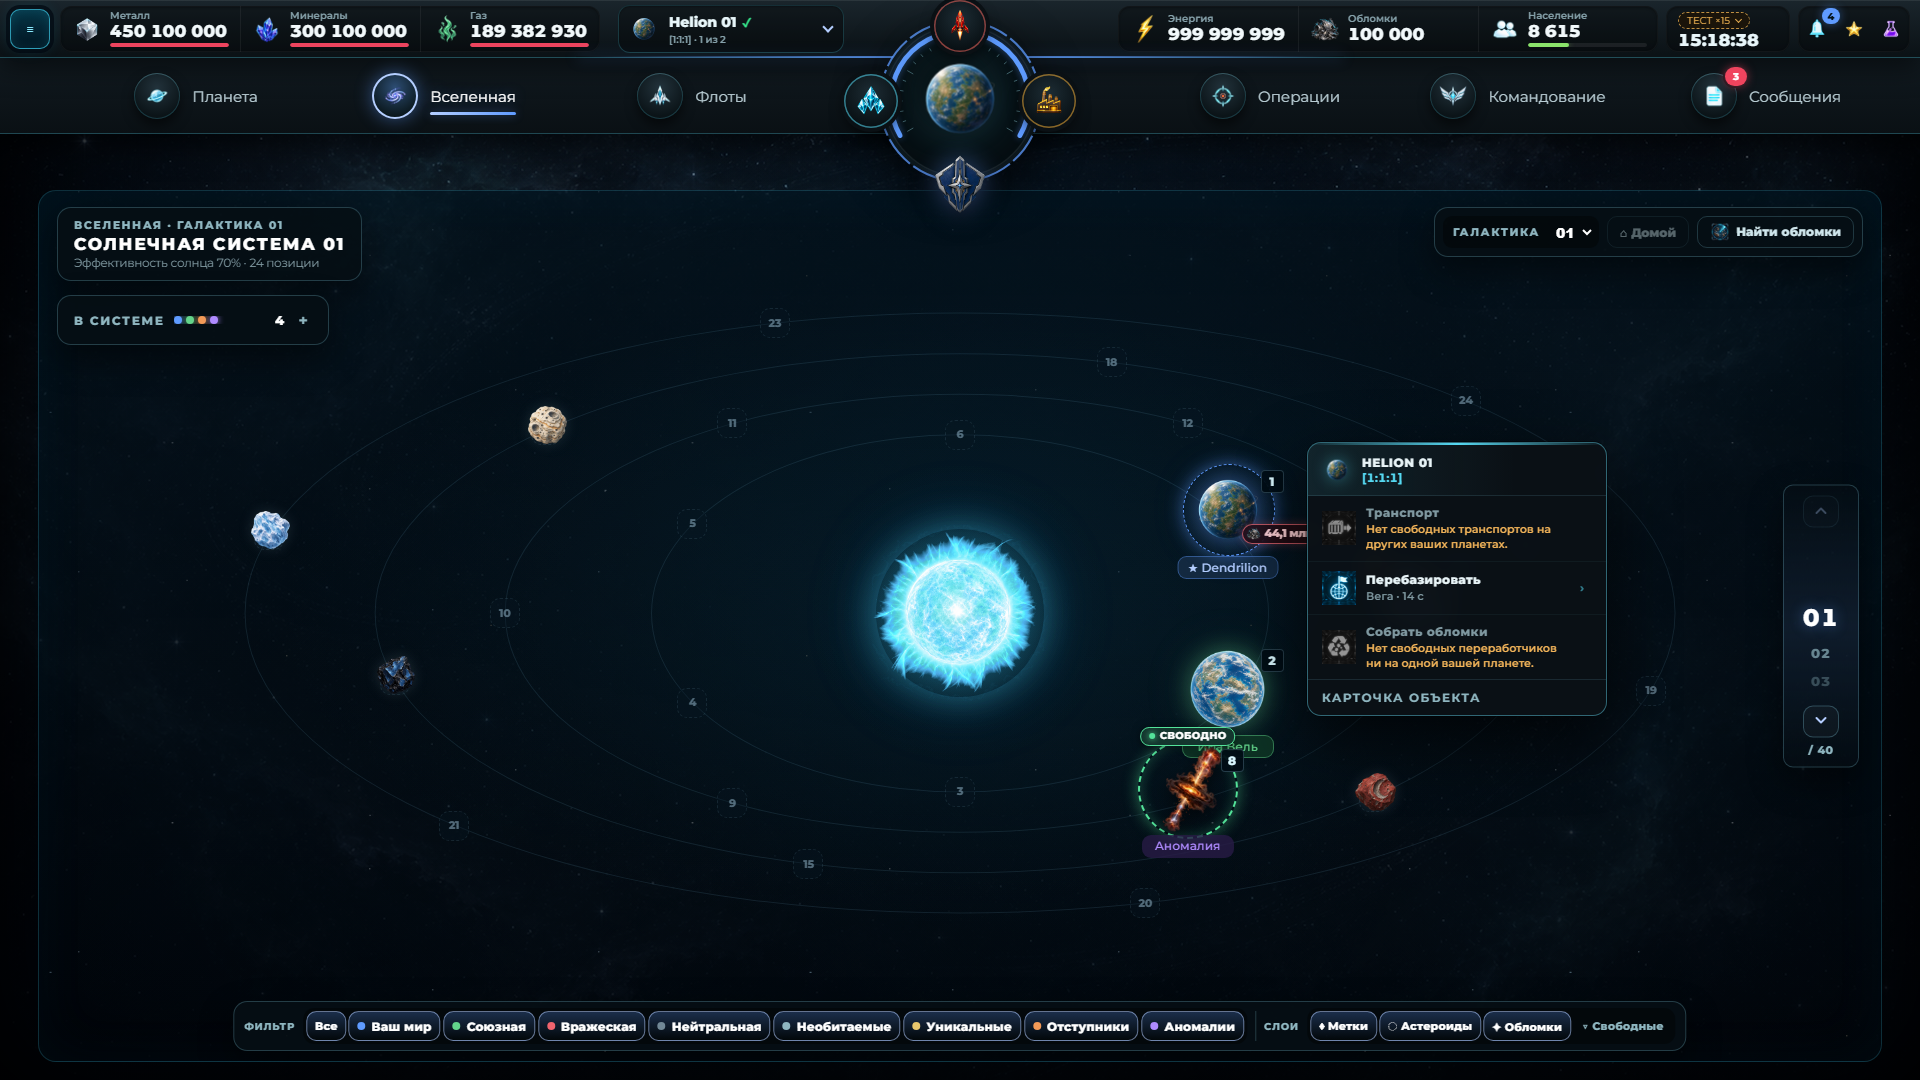
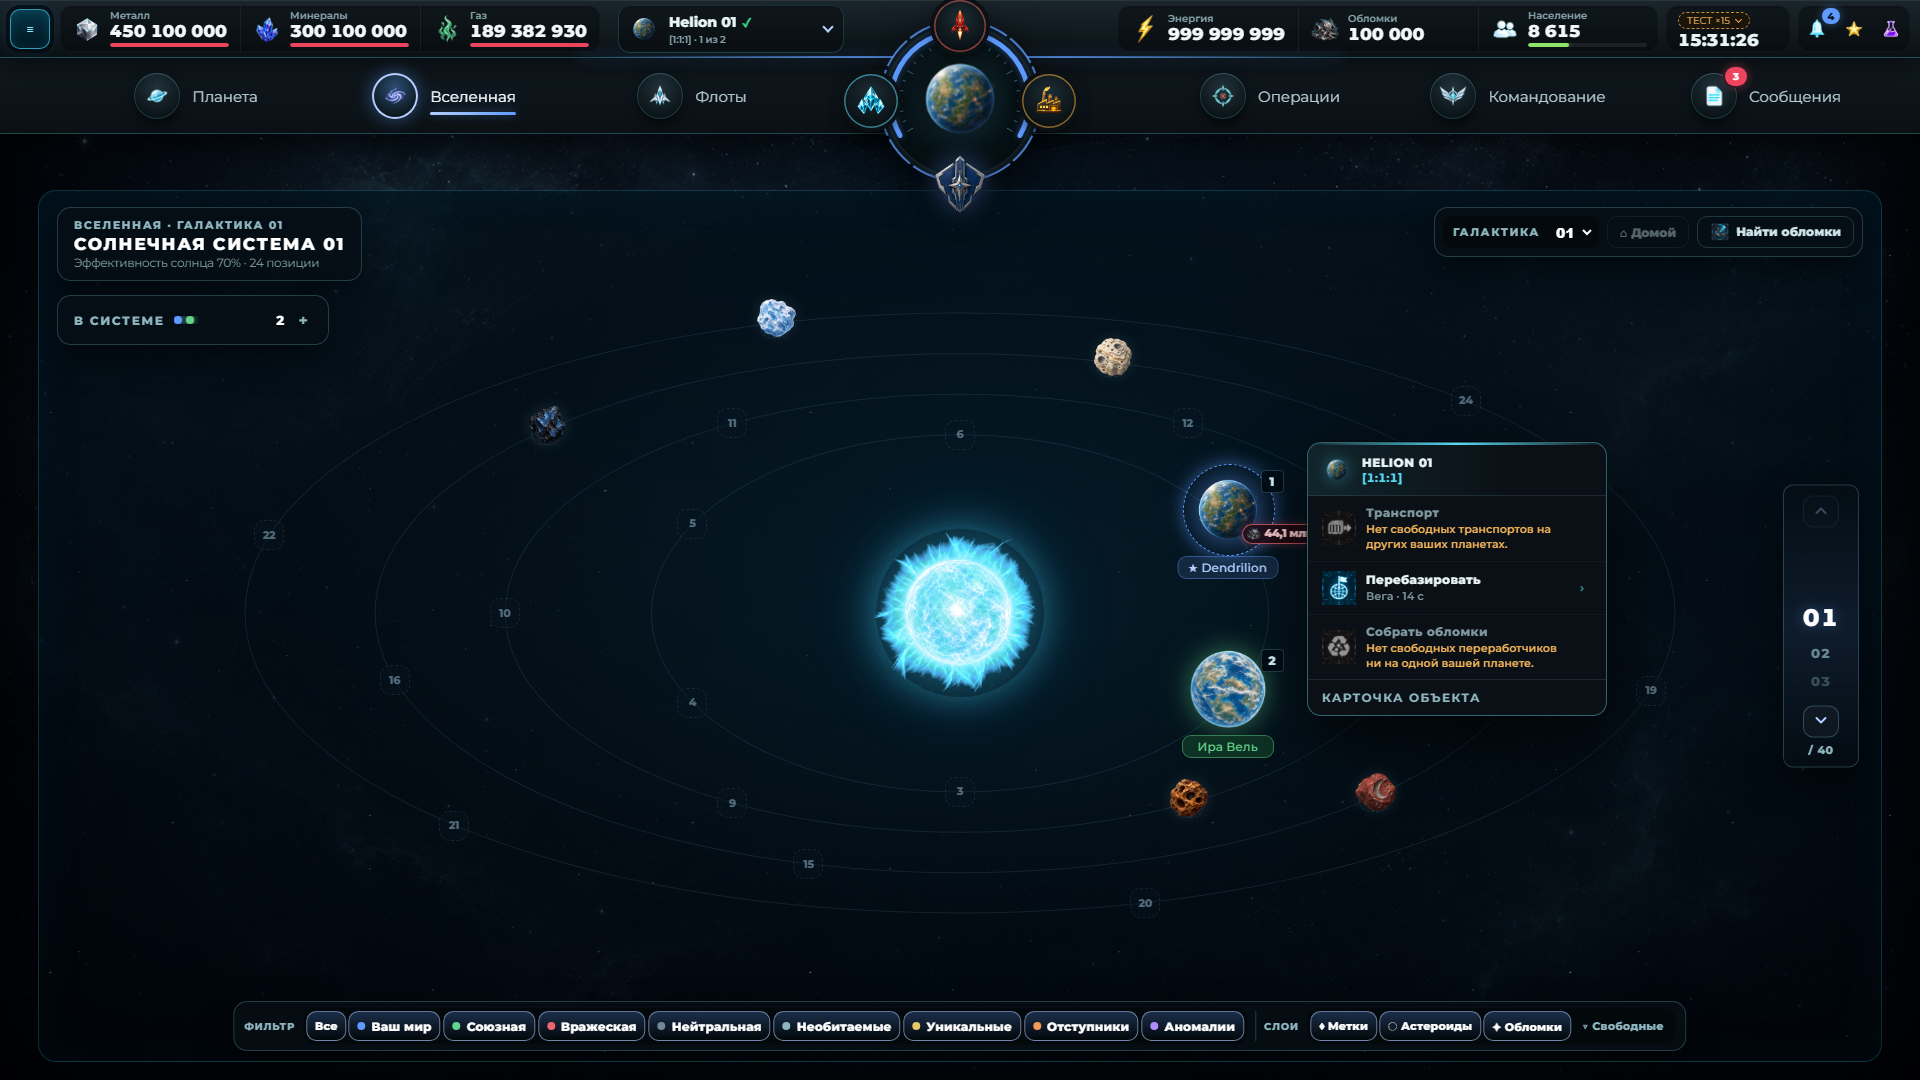
Переработчиков можно отправлять на любую координату заранее
По слову владельца (04.11.2026): рейс переработки разрешён на любую координату без
обломков на месте (в том числе с орбиты своей планеты). Собирается то, что лежит
на орбите в момент прилёта; если пусто, флот возвращается, приходит отчёт
«Обломков не найдено». Быстрое меню предлагает переработку для любой цели, в
панели есть пояснение. Поведение NPC не менялось.

diff --git a/src/application/flights.test.ts b/src/application/flights.test.ts
@@ -777,7 +777,6 @@ test('recycle requires the current explicit target kind and a recycler-only ship
   const withDebris = withOrbitalDebris(initial, empty.coordinate, 100);
   const invalidCommands = [
     { state: withDebris, command: recycleCommand('recycle-kind-mismatch', empty.coordinate, 'player') },
-    { state: initial, command: recycleCommand('recycle-empty-no-debris', empty.coordinate, 'empty') },
     { state: withDebris, command: recycleCommand('recycle-mixed-fleet', empty.coordinate, 'empty', { recycler: 1, scout: 1 }) },
     { state: withDebris, command: recycleCommand('recycle-satellite', empty.coordinate, 'empty', { recycler: 1, 'solar-satellite': 1 }) },
     { state: withDebris, command: { ...recycleCommand('recycle-commander', empty.coordinate, 'empty'), selectedCommanders: { corsair: 1 } } },
@@ -959,13 +958,59 @@ test('recycler target edits resolve the current map kind, preview and dispatch t
     assert.equal(sent.flight.targetKind, preview.flight.targetKind);
   }
 
-  const unavailableKind = resolveRecycleTargetKindAtCoordinate(state, unavailableTarget.coordinate, 1_000, 'production');
-  const rejected = previewFlight(state, recycleCommand('recycle-edited-target-unavailable', unavailableTarget.coordinate, unavailableKind!), {
+  // Owner rule (04.11.2026): a coordinate without debris is a valid target too.
+  const noDebrisKind = resolveRecycleTargetKindAtCoordinate(state, unavailableTarget.coordinate, 1_000, 'production');
+  const accepted = previewFlight(state, recycleCommand('recycle-edited-target-no-debris', unavailableTarget.coordinate, noDebrisKind!), {
     now: 1_000,
     mode: 'production',
   });
-  assert.equal(rejected.ok, false);
-  if (!rejected.ok) assert.equal(rejected.error.code, 'target-not-available');
+  assert.equal(accepted.ok, true);
+});
+
+test('recycle to a coordinate without debris: gas is spent, the fleet arrives, finds nothing, reports it and returns', () => {
+  const empty = emptyUniverseCoordinate();
+  const initial = withRecyclers(colonyReady(createInitialSaveState('production', 1_000)), 3);
+  const gasBefore = getPlanetResources(initial).gas;
+  const sent = dispatchFlight(initial, recycleCommand('recycle-in-advance', empty.coordinate, 'empty'), 1_000);
+  assert.equal(sent.ok, true);
+  if (!sent.ok) return;
+  assert.ok(getPlanetResources(sent.state).gas < gasBefore);
+  const arrived = reconcileFlights(sent.state, sent.flight.arrivalAt);
+  const returning = arrived.state.flights.records.find((flight) => flight.id === sent.flight.id)!;
+  assert.equal(returning.phase, 'returning');
+  assert.equal(returning.cargo?.debris, 0);
+  const report = arrived.state.reports.recyclerArrivalReports?.find((item) => item.flightId === sent.flight.id);
+  assert.equal(report?.collectedDebris, 0);
+  const home = reconcileFlights(arrived.state, returning.arrivalAt + returning.oneWayDurationMs * 2);
+  assert.equal(home.state.planets['helion-01'].fleet.ships.recycler, 3);
+  assert.equal(home.state.flights.records.some((flight) => flight.id === sent.flight.id && flight.phase === 'returning'), false);
+});
+
+test('recycle sent in advance collects debris that appears (a battle) before arrival, only what lies there at arrival', () => {
+  const empty = emptyUniverseCoordinate();
+  const initial = withRecyclers(colonyReady(createInitialSaveState('production', 1_000)), 2);
+  const sent = dispatchFlight(initial, recycleCommand('recycle-after-battle', empty.coordinate, 'empty'), 1_000);
+  assert.equal(sent.ok, true);
+  if (!sent.ok) return;
+  const afterBattle = withOrbitalDebris(sent.state, empty.coordinate, 120, 'battle-debris');
+  const arrived = reconcileFlights(afterBattle, sent.flight.arrivalAt);
+  const returning = arrived.state.flights.records.find((flight) => flight.id === sent.flight.id)!;
+  assert.equal(returning.cargo?.debris, 120);
+  assert.equal(arrived.state.reports.recyclerArrivalReports?.find((item) => item.flightId === sent.flight.id)?.collectedDebris, 120);
+});
+
+test('recycle from a planet to debris on its own orbit and to its own coordinate without debris', () => {
+  const initial = withRecyclers(colonyReady(createInitialSaveState('production', 1_000)), 2);
+  const home = initial.planets['helion-01']!;
+  const coordinate = { galaxy: home.universeGalaxy ?? 1, system: home.universeSystem ?? 1, position: home.universePosition ?? 1 };
+  const quiet = dispatchFlight(initial, recycleCommand('recycle-own-orbit-empty', coordinate, 'player'), 1_000);
+  assert.equal(quiet.ok, true);
+  const withDebris = withOrbitalDebris(initial, coordinate, 90, 'own-orbit-debris');
+  const sent = dispatchFlight(withDebris, recycleCommand('recycle-own-orbit', coordinate, 'player'), 1_000);
+  assert.equal(sent.ok, true);
+  if (!sent.ok) return;
+  const returning = reconcileFlights(sent.state, sent.flight.arrivalAt).state.flights.records.find((flight) => flight.id === sent.flight.id)!;
+  assert.equal(returning.cargo?.debris, 90);
 });
 
 test('recycle arrival collects only free orbital debris and reports zero without touching hidden asteroid cargo', () => {

diff --git a/src/application/flights.ts b/src/application/flights.ts
@@ -1533,11 +1533,9 @@ export function dispatchFlight(
       return failure(state, 'target-not-available', 'Тип цели больше не совпадает с картой вселенной.');
     }
     recycleTargetKind = actualTarget.kind;
-    if (actualTarget.kind === 'empty'
-      && !asteroidOverlayIsActive
-      && getOrbitalDebrisAtCoordinate(currentEspionageState(state), command.destination.coordinate) <= 0) {
-      return failure(state, 'target-not-available', 'На свободной координате нет обломков для переработки.');
-    }
+    // Owner rule (04.11.2026): recyclers may be sent to any coordinate in advance, with no
+    // debris there yet (for example to arrive after a battle). What lies on the orbit at the
+    // moment of arrival is collected; an empty orbit sends the fleet home with a report.
     }
     const cargoCatalog = Object.fromEntries(
       getFactionShipCatalog(state.profile.factionId as CombatFactionId)
@@ -3309,7 +3307,9 @@ export function reconcileFlights(
           events.push({
             flight: returning,
             status: 'delivered',
-            notice: `Переработчик собрал обломки: ${collectedDebris.collected}. Корабли возвращаются.`,
+            notice: collectedDebris.collected > 0
+              ? `Переработчик собрал обломки: ${collectedDebris.collected}. Корабли возвращаются.`
+              : 'Обломков не найдено. Корабли возвращаются.',
           });
           continue;
         }

diff --git a/src/domain/reports/adapters.ts b/src/domain/reports/adapters.ts
@@ -330,7 +330,9 @@ export function recyclerArrivalReportToReportItem(report: RecyclerArrivalReport)
     typeLabel: 'Отчёт переработчика',
     title: `Переработчик прибыл к координатам ${coordinate}`,
     preview: `${coordinate} · собрано ${collected} · осталось на орбите ${remaining}.`,
-    body: `${summary} На орбите осталось свободных обломков: ${remaining}.`,
+    body: report.collectedDebris === 0 && report.remainingOrbitalDebris === 0
+      ? `${summary} К моменту прибытия флота здесь ничего не было, корабли возвращаются без груза.`
+      : `${summary} На орбите осталось свободных обломков: ${remaining}.`,
     timestamp: new Date(report.arrivedAtMs).toISOString(),
     statusLabel: 'ПРИБЫТИЕ ЗАВЕРШЕНО',
     statusTone: 'info',

diff --git a/src/ui/quick-send/QuickSendPanel.tsx b/src/ui/quick-send/QuickSendPanel.tsx
@@ -184,6 +184,13 @@ export function QuickSendPanel({ state, actionId, target, onSend, onClose, onDet
       </header>}
 
       {notice ? <p className="quick-send__notice" role="status" data-qa-quick-notice>{notice}</p> : null}
+      {actionId === 'recycle' && !target.sun ? (
+        <p className="quick-send__notice" role="status" data-qa-quick-recycle-note>
+          {(target.orbitalDebris ?? 0) > 0
+            ? 'Соберём то, что будет на орбите к моменту прибытия.'
+            : 'Обломков здесь сейчас нет. Если к прибытию их не будет, флот вернётся пустым.'}
+        </p>
+      ) : null}
 
       {planner && legs.length > 0 ? (
         <div className="quick-send__keep" data-qa-quick-keep>

diff --git a/src/application/quick-actions.ts b/src/application/quick-actions.ts
@@ -124,8 +124,8 @@ function rule(id: QuickActionId, enabled: boolean, reason?: string): QuickAction
  */
 export function listQuickActions(target: QuickTarget, currentOwnerId: string): QuickActionRule[] {
   const { node } = target;
-  const debris = (target.orbitalDebris ?? 0) > 0;
-  const recycle = debris ? [rule('recycle', true)] : [];
+  // Owner rule (04.11.2026): recyclers go to any coordinate in advance, debris or not.
+  const recycle = [rule('recycle', true)];
   switch (node.kind) {
     case 'player':
     case 'npc': {
